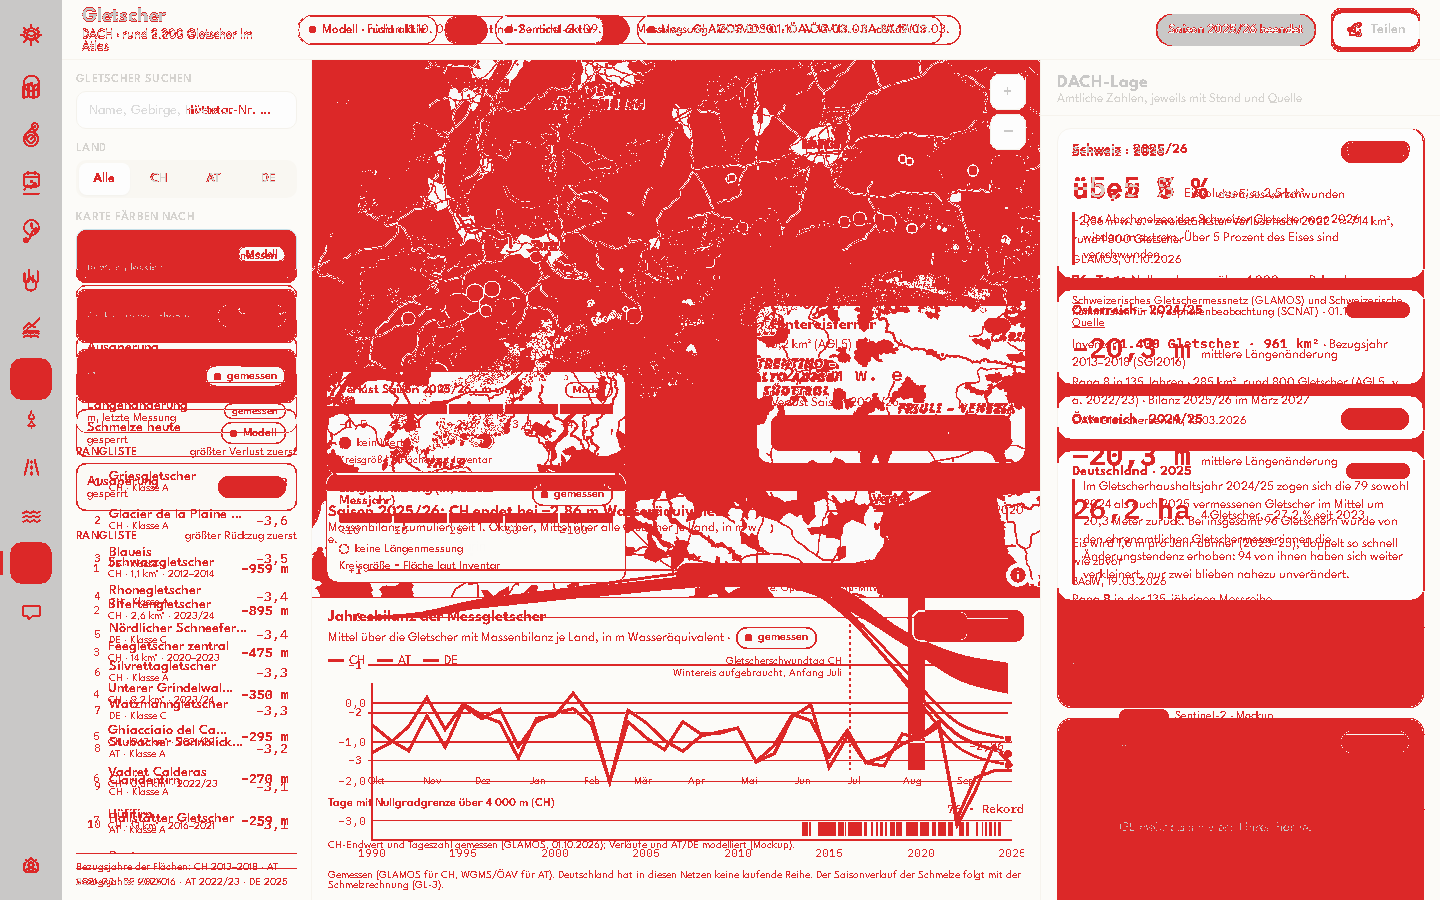
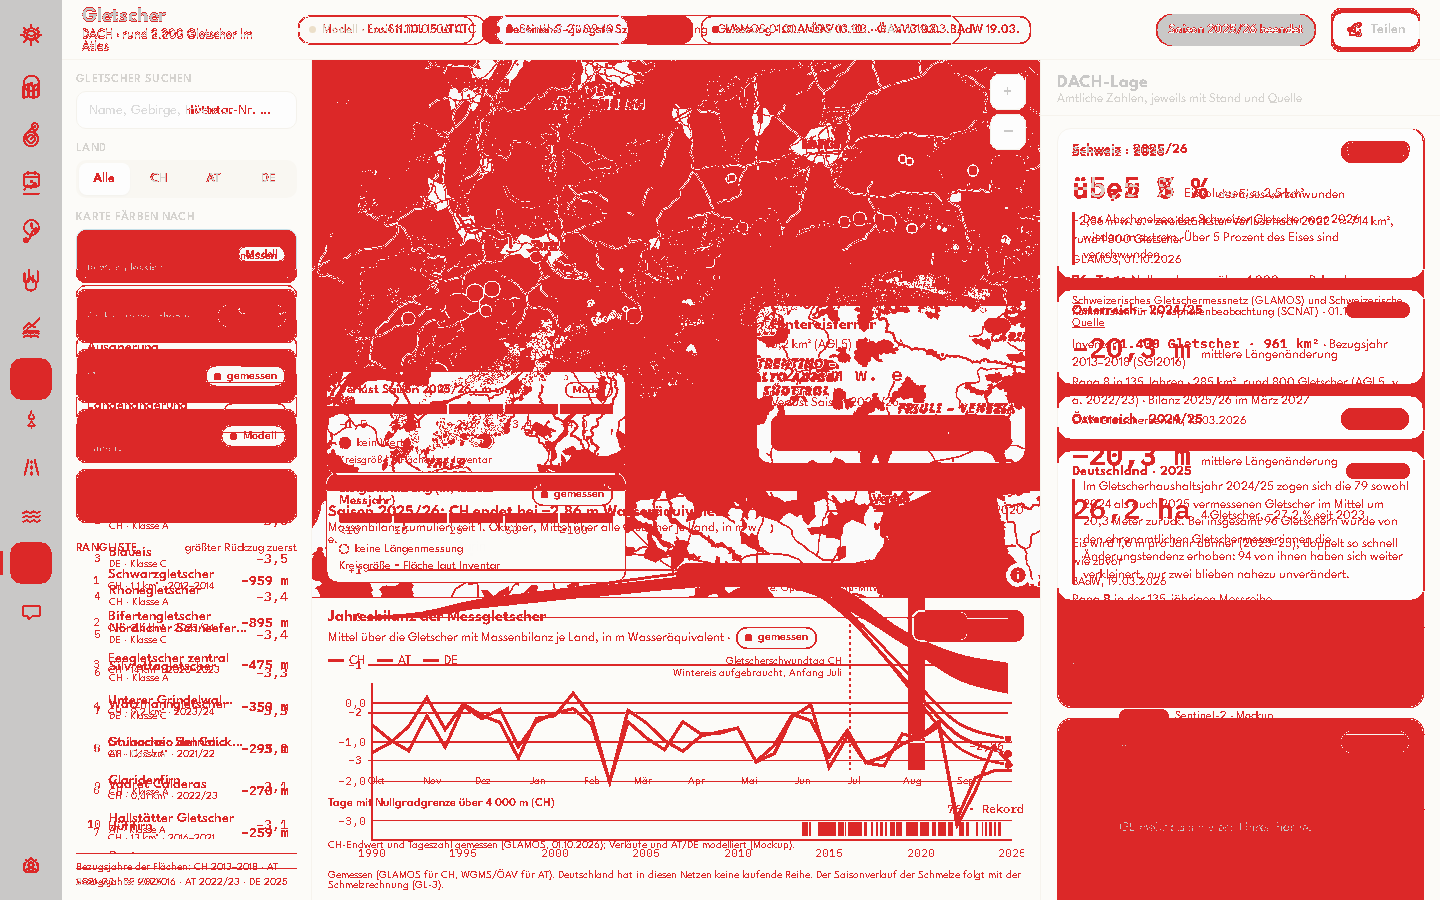
feat(glacier): GL-5 follow-ups — real data repo run, feed pointer with weeks, publisher returns to main
The local data repo (bare remote for the publisher, four workflows) now carries the
static build 20261011-3, the satellite backfill (1349 tile-days), the melt run of
2203 glaciers (index only), the feed of 2026-W41 and its weekly card, all published
through glacier-publish.mjs. Feed: heat events capped at 5 per run, names as the page
names them, the pointer lists the weeks (no request for a missing week); satellite
reindex tool; melt ranking only for glaciers from 0.1 km2; archive publisher returns
to main (a developer clone no longer stays on the orphan branch); UI diff for the sheet.

verify:glacier-{contract,static,publish,sat,melt,sheet,feed} green (publish 22/22),
verify:glacier-ui 62/62, verify:routing 260/260, verify:seo 803 ok.

diff --git a/src/glacier/glacierClient.ts b/src/glacier/glacierClient.ts
@@ -108,7 +108,7 @@ export interface GlacierIndex {
   feed?: GlacierFeedPointer;
 }
 export interface GlacierMeltPointer { run: string; runAt: string; engine: { name: string; version: number | null }; cube: Record<string, string | null>; unit: boolean; build: string }
-export interface GlacierFeedPointer { week: string; builtAt: string; n: number }
+export interface GlacierFeedPointer { week: string; builtAt: string; n: number; /** Week key of the newest weekly card (`card/<week>.png`), `null` = none yet. */ card?: string | null; /** Weeks that have a feed document, newest first. */ weeks?: string[] }
 export interface GlacierSatIndex { updatedAt: string; newest: Record<string, string>; seasons: Record<string, Record<string, string>> }
 export interface GlacierStatus { schema: 1; kind: 'glacier/status'; killed?: boolean; killReason?: string; lines?: Record<string, unknown>; checkedAt?: string }
 export type GlacierPointRow = [id: string, lat: number, lon: number, klass: 'A' | 'B' | 'C', km2: number];
@@ -277,7 +277,9 @@ export async function loadDemGrid(build: string, region: string, id: string, sig
  */
 export async function loadFeed(pointer: GlacierFeedPointer | undefined, official: readonly import('./glacierContract').GlacierOfficialItem[], glacierIds: ReadonlySet<string>, signal?: AbortSignal, bases = glacierBasesFrom()): Promise<GlacierFeedEvent[] | null> {
   if (!pointer?.week) return null;
-  const weeks = [pointer.week, previousWeekKey(Date.parse(`${pointer.week.slice(0, 4)}-01-04T12:00:00Z`) + (Number(pointer.week.slice(6)) - 1) * 7 * 86_400_000)];
+  // the pointer's week and the one before it — but only a week the pointer lists (a request for a missing file is a red line in every visitor's console)
+  const prev = previousWeekKey(Date.parse(`${pointer.week.slice(0, 4)}-01-04T12:00:00Z`) + (Number(pointer.week.slice(6)) - 1) * 7 * 86_400_000);
+  const weeks = pointer.weeks ? [pointer.week, ...(pointer.weeks.includes(prev) ? [prev] : [])] : [pointer.week];
   const docs = await Promise.all(weeks.map(async (w) => {
     try {
       const d = await fetchGlacier(glacierFeedPath(w), 'json', signal, bases, 'raw') as GlacierFeedDoc;

diff --git a/src/glacier/GlacierPage.tsx b/src/glacier/GlacierPage.tsx
@@ -183,7 +183,7 @@ export default function GlacierPage({ initial, onUrlState, onGlacier, popState }
   const lists = d && (
     <>
       <FollowList ids={favs} byId={d.cat.byId} valueText={favValue} onPick={pick} onUnfollow={follow} fresh={fresh} />
-      {feed && <FeedList events={feed} onPick={pick} />}
+      {feed && <FeedList events={feed} onPick={pick} cardWeek={d.feed?.card ?? null} cardUrl={d.feed?.card ? `${bases.cdn}/card/${d.feed.card}.png` : null} />}
       <StatusList items={d.official} />
     </>
   );
@@ -242,7 +242,7 @@ export default function GlacierPage({ initial, onUrlState, onGlacier, popState }
   const dock = (
     <GlacierDock query={query} onQuery={setQuery} land={land} onLand={setLand} metric={metric} onMetric={setMetric} rows={rows} selectedId={selId} onPick={pick}
       refYears={`CH ${fmtRefYear('2013-2018')} · AT 2021–23 · DE 2025`} defs={defs}
-      hint={def.locked ? 'gesperrt' : metric === 'laenge' ? 'größter Rückzug zuerst' : metric === 'ausaperung' ? 'größte Ausaperung zuerst' : 'größter Verlust zuerst'} />
+      hint={def.locked ? 'gesperrt' : metric === 'laenge' ? 'größter Rückzug zuerst' : metric === 'ausaperung' ? 'größte Ausaperung zuerst' : metric === 'schmelze' ? 'stärkste Schmelze zuerst · ab 0,1 km²' : 'größter Verlust zuerst'} />
   );
   const chart = d?.summary && (
     <section className="gl-chart-sec" aria-label="Messreihen je Land">

diff --git a/src/glacier/GlacierFeedView.tsx b/src/glacier/GlacierFeedView.tsx
@@ -10,11 +10,12 @@ import type { GlacierFeedEvent } from './glacierFeedContract';
 
 const dm = (iso: string) => `${iso.slice(8, 10)}.${iso.slice(5, 7)}.`;
 
-export function FeedList({ events, limit = 8, onPick }: { events: readonly GlacierFeedEvent[]; limit?: number; onPick?: (glacierId: string) => void }) {
+export function FeedList({ events, limit = 8, onPick, cardUrl, cardWeek }: { events: readonly GlacierFeedEvent[]; limit?: number; onPick?: (glacierId: string) => void; cardUrl?: string | null; cardWeek?: string | null }) {
   if (!events.length) return null;
   return (
     <>
       <h3 className="gl-h3">Was sich verändert hat</h3>
+      {cardUrl && cardWeek && <p className="gl-fine gl-card-link"><a href={cardUrl} target="_blank" rel="noopener noreferrer">Wochenkarte {cardWeek.replace(/^(\d{4})-W(\d{2})$/, 'KW $2 / $1')} (Bild, teilbar)</a></p>}
       <ol className="gl-feed gl-changes" aria-label="Änderungen, neueste zuerst" data-count={events.length}>
         {events.slice(0, limit).map((e) => (
           <li key={e.id} data-id={e.id} data-type={e.type}>

diff --git a/src/glacier/glacierView.ts b/src/glacier/glacierView.ts
@@ -153,6 +153,8 @@ export function rankGlaciers(glaciers: readonly GlacierCatalogEntry[], summary: 
   const rows: RankRow[] = [];
   for (const g of glaciers) {
     if (!inLand(g, land) || !matchesQuery(g, q)) continue;
+    // the melt ranking is for glaciers of 0,1 km² and more: the smallest ones sit at the cap of the index with ties the ranking cannot order (the map still colours them)
+    if (metric === 'schmelze' && g.klass === 'C') continue;
     const value = metricValue(metric, summary?.latest[g.id], g, ctx);
     if (value.v != null) rows.push({ g, value });
   }

diff --git a/src/glacier/glacierFeedContract.ts b/src/glacier/glacierFeedContract.ts
@@ -23,7 +23,7 @@ export const GLACIER_FEED_ORIGIN: Readonly<Record<GlacierFeedType, GlacierOrigin
 export const GLACIER_FEED_SNOWLINE_STEP_M = 100;
 /** A hot day: freezing level above the glacier's median elevation AND melt index p50 at least this (`set`). */
 export const GLACIER_FEED_HEAT_INDEX = 60;
-export const GLACIER_FEED_MAX_HEAT = 12;
+export const GLACIER_FEED_MAX_HEAT = 5;
 
 export interface GlacierFeedEvent {
   id: string;
